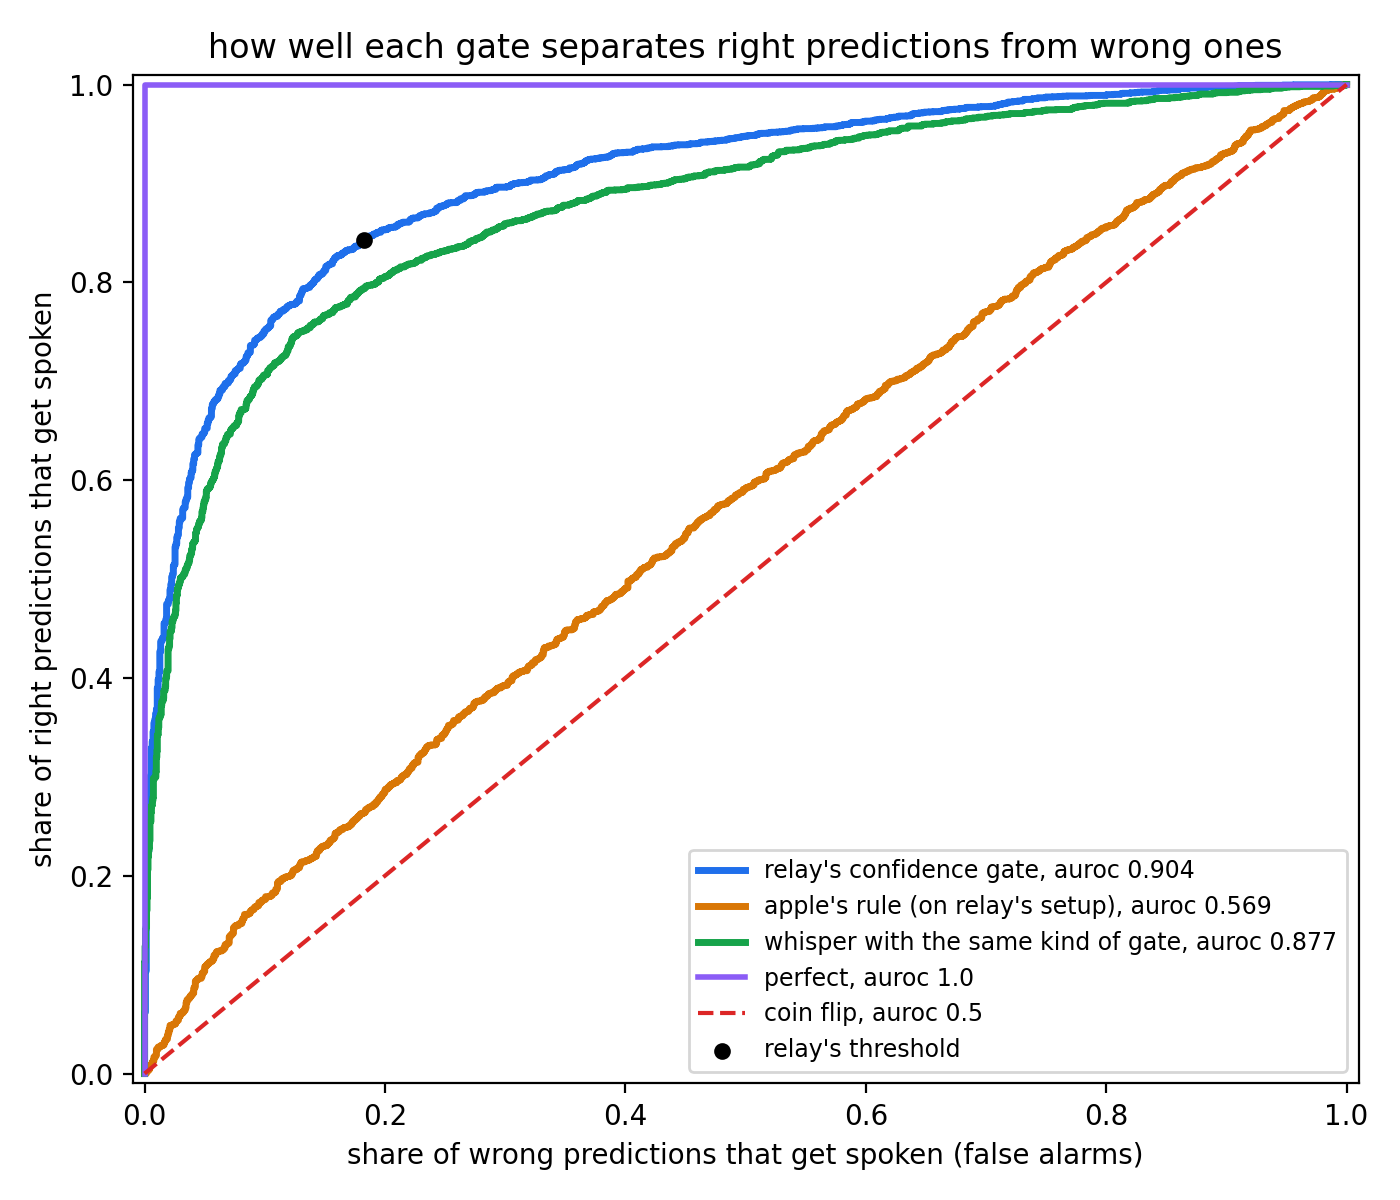
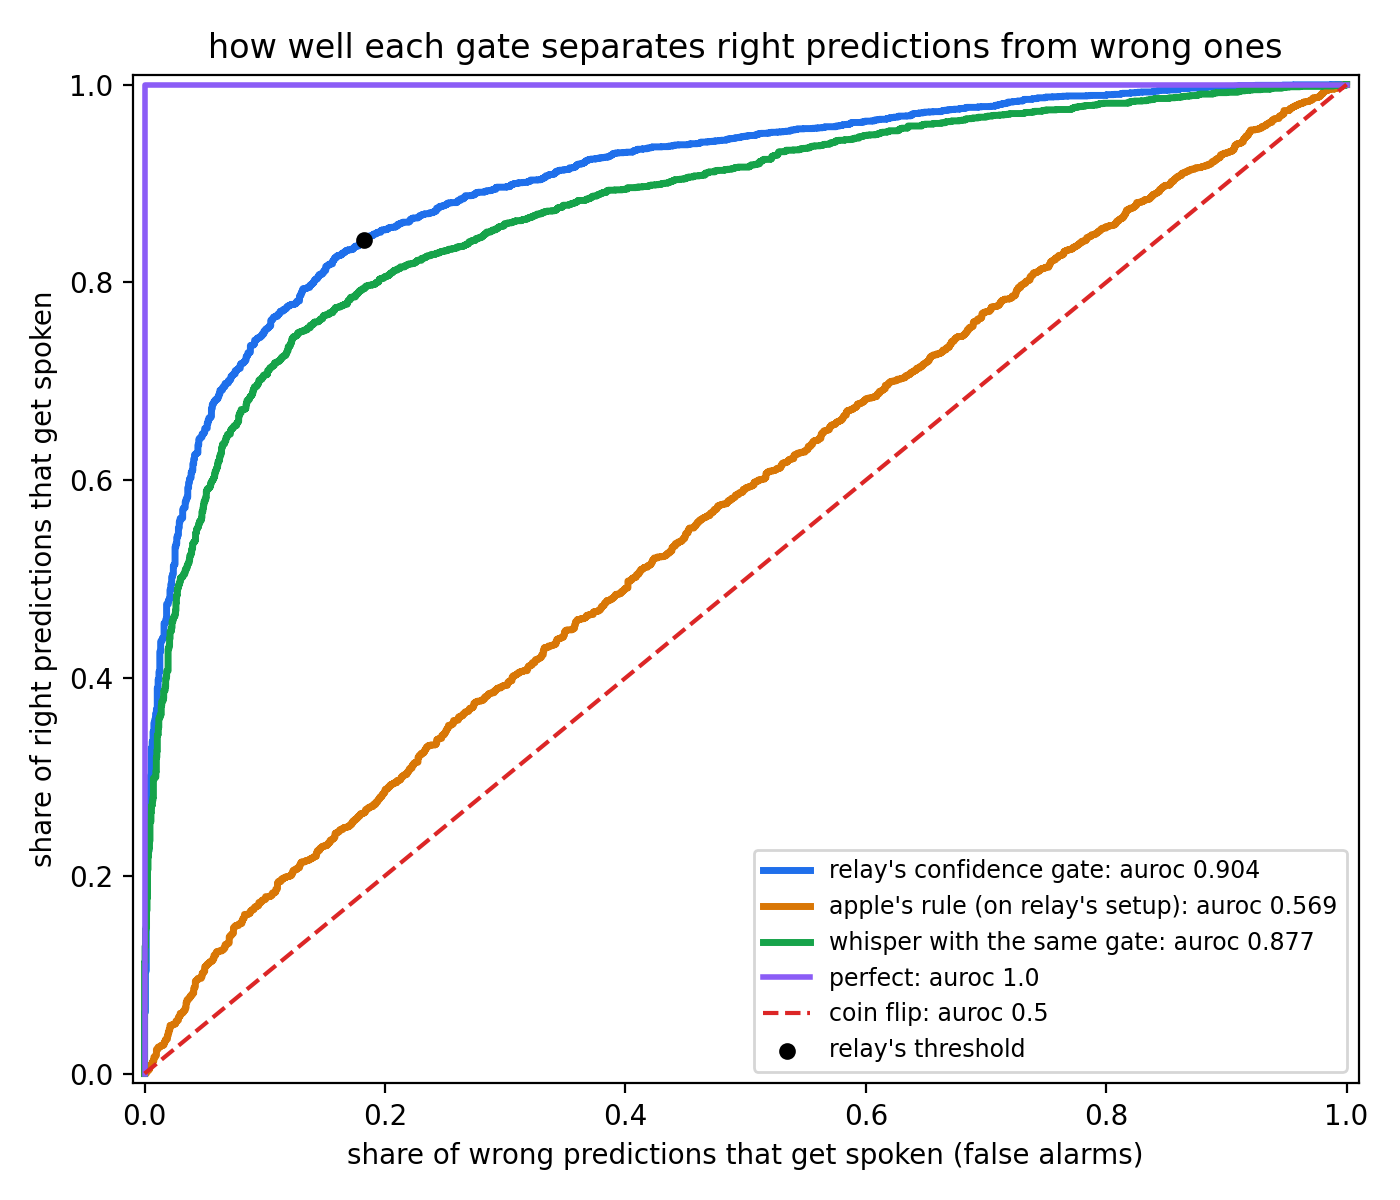
update results

Changed region(s): [[0.4914, 0.7092, 0.9521, 0.8942]]

diff --git a/readme.md b/readme.md
@@ -64,13 +64,13 @@ all numbers are on the same 5,149 test recordings from the 27 speakers with dysa
 
 **with the confidence gate:**
 
-| | right when it spoke | showed three | right word among the three | false alarms | missed cases |
+| | right when spoken | showed three | right in the three | false alarms | missed |
 |---|---|---|---|---|---|
 | relay with the gate | 92.4% | 33.9% | 56.1% | 5.0% | 11.4% |
 
 false alarms (relay speaks a wrong word) drop from 27.6% without the gate and land right at the 5% target even though the threshold was set on other speakers. missed cases are tries where relay showed three even though its prediction was right. on the tries where relay shows three, its best guess alone would be right only 33.6% of the time.
 
-to check how well the confidence score separates right predictions from wrong ones, we used auroc. if you pick one try where relay was right and one where it was wrong, auroc is how often the gate gives the right one the higher score. relay's gate scores **0.904**, so about 9 times out of 10. putting the same gate on whisper scores 0.877. apple's rule on relay's setup scores 0.569.
+to check how well the confidence score separates right predictions from wrong ones, we used auroc. if you pick one try where relay was right and one where it was wrong, auroc is how often the gate gives the right one the higher score. relay's gate scores **0.904**, so about 9 times out of 10. putting the same gate on whisper scores 0.877. for whisper, the gate uses whisper's own scores (how likely its chosen phrase was and how far ahead it was of the next one) in place of relay's distances, plus the same length and loudness. apple's rule on relay's setup scores 0.569.
 
 <img src="roc_curve.png" width="550" alt="roc curve of the confidence gate">
 
